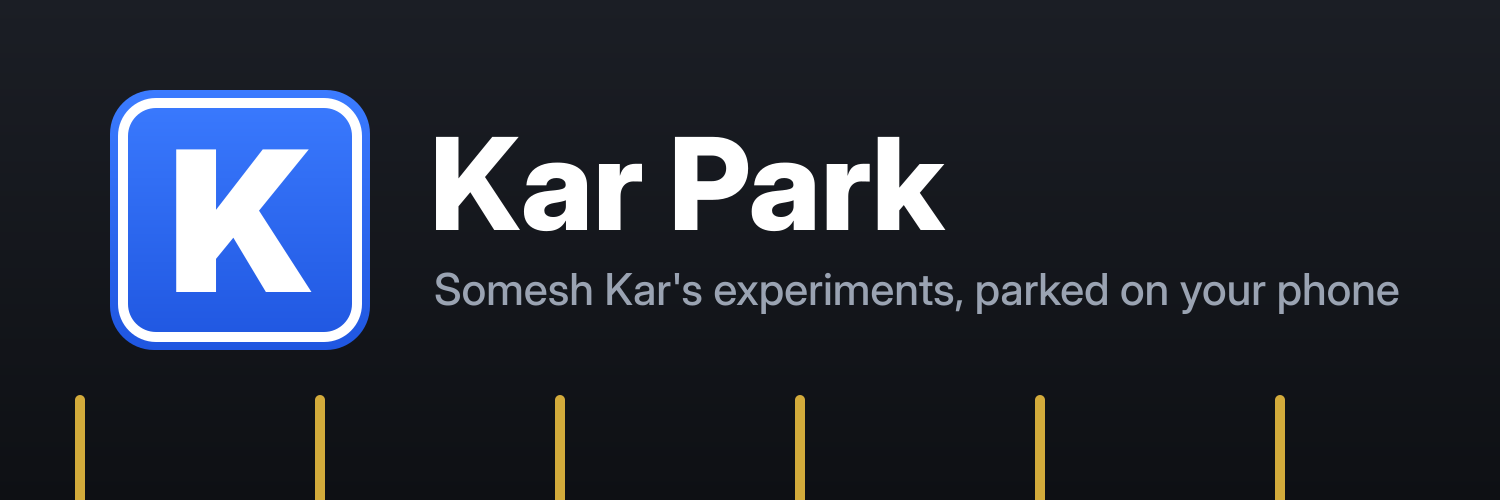
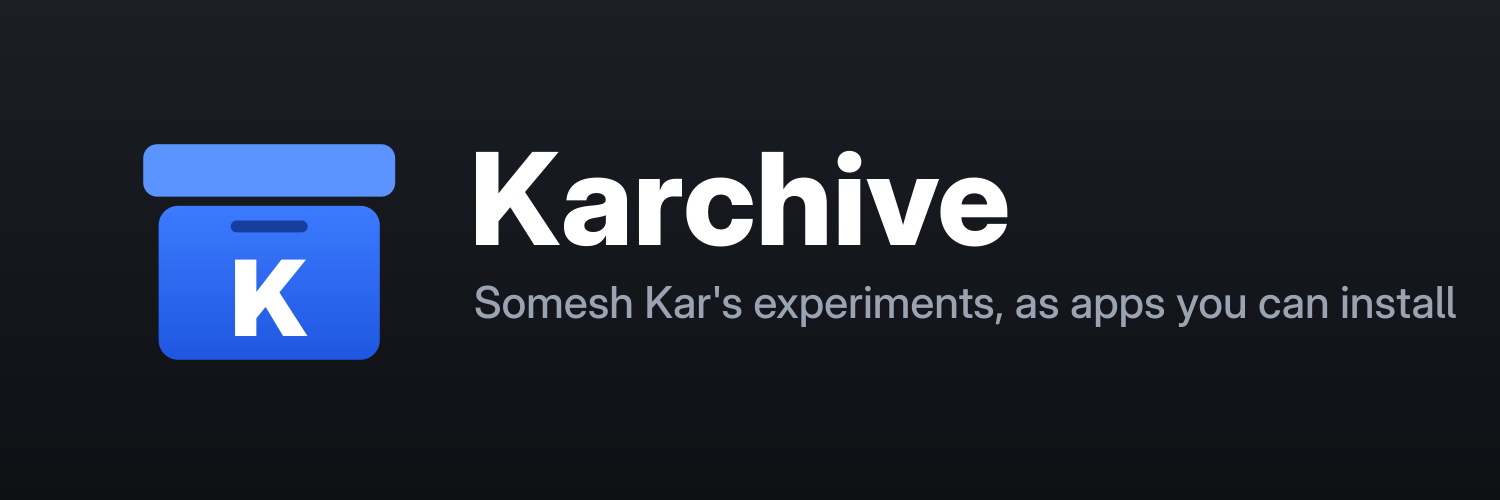
store: rename to Karchive

diff --git a/index.html b/index.html
@@ -1,12 +1,12 @@
-<!doctype html><meta charset="utf-8"><meta name="viewport" content="width=device-width,initial-scale=1"><title>Kar Park</title>
+<!doctype html><meta charset="utf-8"><meta name="viewport" content="width=device-width,initial-scale=1"><title>Karchive</title>
 <style>body{font:16px/1.6 -apple-system,system-ui,sans-serif;background:#111318;color:#e9edf3;max-width:40rem;margin:3rem auto;padding:0 1.5rem}
 a{color:#5b8cff}code{background:#1c2029;padding:.15em .4em;border-radius:4px;word-break:break-all}img{max-width:100%;border-radius:12px}</style>
-<img src="store-header.png" alt="Kar Park">
+<img src="store-header.png" alt="Karchive">
 <p>Apps from Somesh Kar's experiments that happen to need an iPhone or iPad. Built unsigned; SideStore or LiveContainer signs them on your device.</p>
 <h3>Add the source</h3>
 <ul>
-<li><b>LiveContainer</b> (3.7+, no app slots used): open <code>livecontainer://sources?url=https%3A%2F%2Fgit.somesh.dev%2Fsms%2Fkarpark%2Fraw%2Fbranch%2Fmain%2Fsource.json</code> in Safari.</li>
-<li><b>SideStore</b>: Sources, +, then paste <code>https://git.somesh.dev/sms/karpark/raw/branch/main/source.json</code></li>
+<li><b>LiveContainer</b> (3.7+, no app slots used): open <code>livecontainer://sources?url=https%3A%2F%2Fgit.somesh.dev%2Fsms%2Fkarchive%2Fraw%2Fbranch%2Fmain%2Fsource.json</code> in Safari.</li>
+<li><b>SideStore</b>: Sources, +, then paste <code>https://git.somesh.dev/sms/karchive/raw/branch/main/source.json</code></li>
 </ul>
 <h3>Parked here</h3>
 <ul>

diff --git a/README.md b/README.md
@@ -1,11 +1,11 @@
-# Kar Park
+# Karchive
 
-![Kar Park](store-header.png)
+![Karchive](store-header.png)
 
 A SideStore / LiveContainer source for Somesh Kar's experiments that come with iOS apps.
 
-Source: `https://git.somesh.dev/sms/karpark/raw/branch/main/source.json`
+Source: `https://git.somesh.dev/sms/karchive/raw/branch/main/source.json`
 
-LiveContainer 3.7+: `livecontainer://sources?url=https%3A%2F%2Fgit.somesh.dev%2Fsms%2Fkarpark%2Fraw%2Fbranch%2Fmain%2Fsource.json`
+LiveContainer 3.7+: `livecontainer://sources?url=https%3A%2F%2Fgit.somesh.dev%2Fsms%2Fkarchive%2Fraw%2Fbranch%2Fmain%2Fsource.json`
 
 Apps are built unsigned and signed on the device. IPAs are attached to releases; `source.json` lists the newest builds. Vispr publishes here with `apps/vispr-ios/publish-sidestore.sh` in the vispr repo.
